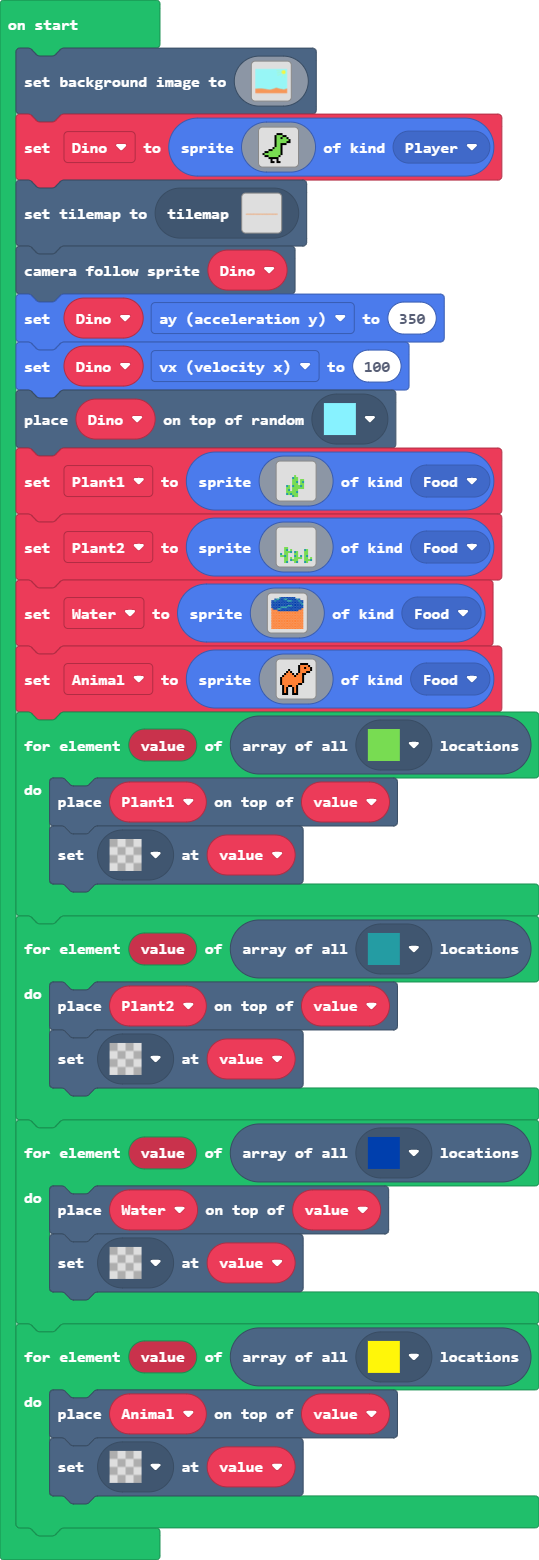
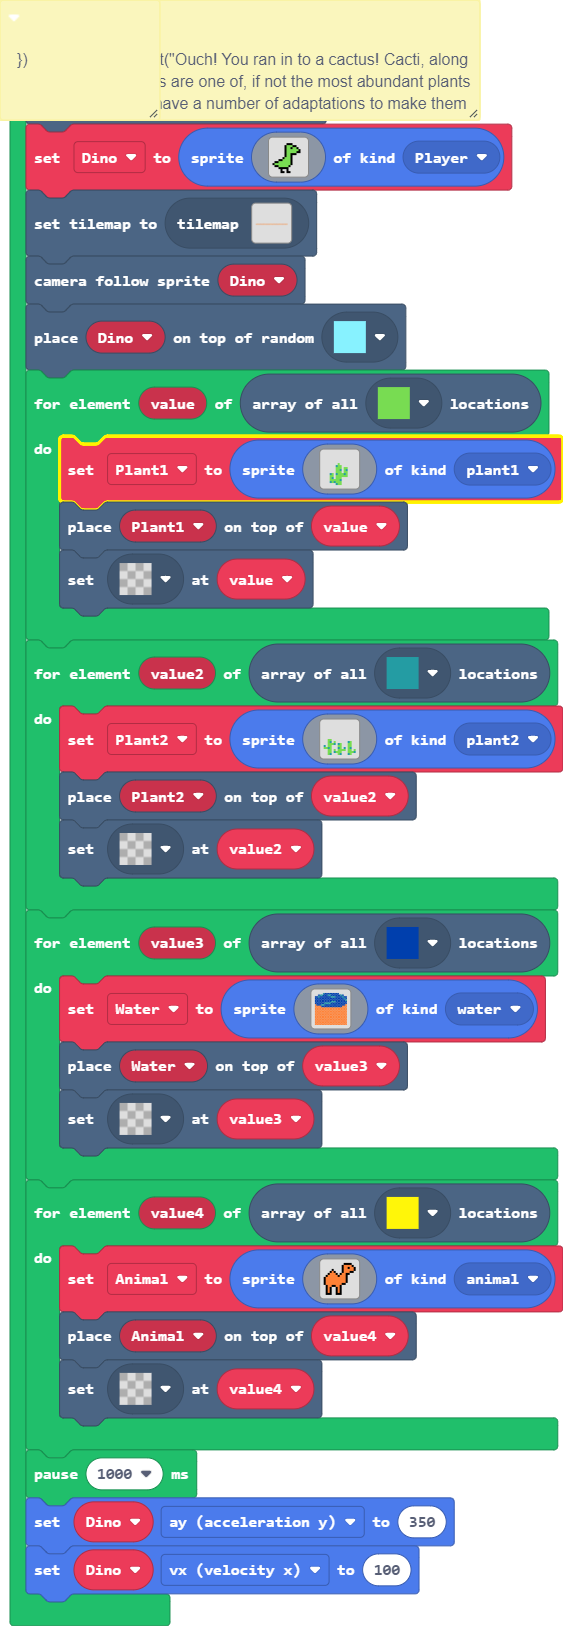
Update main.blocks, main.ts

diff --git a/main.ts b/main.ts
@@ -1,3 +1,22 @@
+namespace SpriteKind {
+    export const plant1 = SpriteKind.create()
+    export const plant2 = SpriteKind.create()
+    export const water = SpriteKind.create()
+    export const animal = SpriteKind.create()
+}
+/**
+ * sprites.onOverlap(SpriteKind.Player, SpriteKind.plant1, function (sprite, otherSprite) {
+ */
+/**
+ * game.showLongText("Ouch! You ran in to a cactus! Cacti, along with other succulents are one of, if not the most abundant plants in the desert. They have a number of adaptations to make them suitable for the desert, including having wider roots and spines for leaves to reduce water loss.", DialogLayout.Bottom)
+ */
+/**
+ * })
+ */
+let Animal: Sprite = null
+let Water: Sprite = null
+let Plant2: Sprite = null
+let Plant1: Sprite = null
 scene.setBackgroundImage(img`
     9999999999999999999999999999999999999999999999999999999999999999999999999999999999999999999999999999999999999999999999999999999999999999999999999999999999999999
     9999999999999999999999999999999999999999999999999999999999999999999999999999999999999999999999999999999999999999999999999999999999999999999999999999999999999999
@@ -140,98 +159,99 @@ let Dino = sprites.create(img`
     `, SpriteKind.Player)
 tiles.setCurrentTilemap(tilemap`level1`)
 scene.cameraFollowSprite(Dino)
-Dino.ay = 350
-Dino.vx = 100
 tiles.placeOnRandomTile(Dino, assets.tile`myTile6`)
-let Plant1 = sprites.create(img`
-    . . . . . . . . . . . . . . . . 
-    . . . . . . . . . . . . . . . . 
-    . . . . . . . . . . . . . . . . 
-    . . . . . . . . . . . . . . . . 
-    . . . . . . . . . . . . . . . . 
-    . . . . . . . 7 . . . . . . . . 
-    . . . . . . 6 7 7 . . . . . . . 
-    . . . . . . 7 7 7 . 7 7 . . . . 
-    . . . . . . 7 7 6 . 7 6 . . . . 
-    . . . . . . 7 7 7 . 7 7 . . . . 
-    . . . 6 7 . 6 7 7 7 6 7 . . . . 
-    . . . 7 7 . 7 7 7 7 7 7 . . . . 
-    . . . 7 6 . 7 7 7 . . . . . . . 
-    . . . 7 7 7 7 7 6 . . . . . . . 
-    . . . 6 7 6 7 7 7 . . . . . . . 
-    . . . . . . 6 7 7 . . . . . . . 
-    `, SpriteKind.Food)
-let Plant2 = sprites.create(img`
-    . . . . . . . . . . . . . . . . 
-    . . . . . . . . . . . . . . . . 
-    . . . . . . . . . . . . . . . . 
-    . . . . . . . . . . . . . . . . 
-    . . . . . . . . . . . . . . . . 
-    . . . . . . . . . . . . . . . . 
-    . . . . . . . . . . . . . . . . 
-    . . . . . . . . . . . . . . . . 
-    . . 7 7 . . . . . . . . . . . . 
-    . . 7 6 . 7 . . . . . . 6 7 . . 
-    . . 7 7 7 6 . 6 7 . . . 7 7 . . 
-    6 . 7 7 . . . 7 7 . . . 7 7 . . 
-    7 7 6 7 . . . 6 7 . 6 . 7 6 . . 
-    . . 7 7 . 7 . 7 7 7 7 . 7 7 . 7 
-    . . 7 7 . 6 7 7 7 . . . 7 7 7 6 
-    . . 7 6 . . . 7 6 . . . 6 7 . . 
-    `, SpriteKind.Food)
-let Water = sprites.create(img`
-    .....6888888888.....
-    ..8668886688888868..
-    88688888886668888688
-    88888888888888888868
-    88888888888888888886
-    88888888886668888888
-    88888866668888888888
-    48886688888888888884
-    44448888888888888444
-    44444444444444444444
-    44444444444444444444
-    44444444444444444444
-    44444444444444444444
-    44444444444444444444
-    44444444444444444444
-    44444444444444444444
-    44444444444444444444
-    44444444444444444444
-    44444444444444444444
-    44444444444444444444
-    `, SpriteKind.Food)
-let Animal = sprites.create(img`
-    . . . . . . . . . . f f f f . . 
-    . . . . . . . . . f 4 4 4 4 f . 
-    . . . . . . . . . f 4 4 f 4 4 f 
-    . . . . f . . . . f 4 4 4 4 4 f 
-    . . . f 4 f . . . f 4 4 4 f f . 
-    . . f 4 4 4 f . f 4 4 f f . . . 
-    . f 4 4 4 4 4 f 4 4 4 f . . . . 
-    f 4 4 4 4 4 4 4 4 4 4 f . . . . 
-    f 4 4 4 4 4 4 4 4 4 4 f . . . . 
-    f 4 4 4 4 4 4 4 4 4 4 f . . . . 
-    f 4 4 4 4 4 4 4 4 f f . . . . . 
-    . f 4 4 f f 4 4 f . . . . . . . 
-    . f 4 f . . f 4 f . . . . . . . 
-    . f 4 f . . f 4 f . . . . . . . 
-    . f 4 f . . f 4 f . . . . . . . 
-    . f f f . . f f f . . . . . . . 
-    `, SpriteKind.Food)
 for (let value of tiles.getTilesByType(assets.tile`myTile`)) {
+    Plant1 = sprites.create(img`
+        . . . . . . . . . . . . . . . . 
+        . . . . . . . . . . . . . . . . 
+        . . . . . . . . . . . . . . . . 
+        . . . . . . . . . . . . . . . . 
+        . . . . . . . . . . . . . . . . 
+        . . . . . . . 7 . . . . . . . . 
+        . . . . . . 6 7 7 . . . . . . . 
+        . . . . . . 7 7 7 . 7 7 . . . . 
+        . . . . . . 7 7 6 . 7 6 . . . . 
+        . . . . . . 7 7 7 . 7 7 . . . . 
+        . . . 6 7 . 6 7 7 7 6 7 . . . . 
+        . . . 7 7 . 7 7 7 7 7 7 . . . . 
+        . . . 7 6 . 7 7 7 . . . . . . . 
+        . . . 7 7 7 7 7 6 . . . . . . . 
+        . . . 6 7 6 7 7 7 . . . . . . . 
+        . . . . . . 6 7 7 . . . . . . . 
+        `, SpriteKind.plant1)
     tiles.placeOnTile(Plant1, value)
     tiles.setTileAt(value, assets.tile`transparency16`)
 }
-for (let value of tiles.getTilesByType(assets.tile`myTile3`)) {
-    tiles.placeOnTile(Plant2, value)
-    tiles.setTileAt(value, assets.tile`transparency16`)
+for (let value2 of tiles.getTilesByType(assets.tile`myTile3`)) {
+    Plant2 = sprites.create(img`
+        . . . . . . . . . . . . . . . . 
+        . . . . . . . . . . . . . . . . 
+        . . . . . . . . . . . . . . . . 
+        . . . . . . . . . . . . . . . . 
+        . . . . . . . . . . . . . . . . 
+        . . . . . . . . . . . . . . . . 
+        . . . . . . . . . . . . . . . . 
+        . . . . . . . . . . . . . . . . 
+        . . 7 7 . . . . . . . . . . . . 
+        . . 7 6 . 7 . . . . . . 6 7 . . 
+        . . 7 7 7 6 . 6 7 . . . 7 7 . . 
+        6 . 7 7 . . . 7 7 . . . 7 7 . . 
+        7 7 6 7 . . . 6 7 . 6 . 7 6 . . 
+        . . 7 7 . 7 . 7 7 7 7 . 7 7 . 7 
+        . . 7 7 . 6 7 7 7 . . . 7 7 7 6 
+        . . 7 6 . . . 7 6 . . . 6 7 . . 
+        `, SpriteKind.plant2)
+    tiles.placeOnTile(Plant2, value2)
+    tiles.setTileAt(value2, assets.tile`transparency16`)
 }
-for (let value of tiles.getTilesByType(assets.tile`myTile1`)) {
-    tiles.placeOnTile(Water, value)
-    tiles.setTileAt(value, assets.tile`transparency16`)
+for (let value3 of tiles.getTilesByType(assets.tile`myTile1`)) {
+    Water = sprites.create(img`
+        .....6888888888.....
+        ..8668886688888868..
+        88688888886668888688
+        88888888888888888868
+        88888888888888888886
+        88888888886668888888
+        88888866668888888888
+        48886688888888888884
+        44448888888888888444
+        44444444444444444444
+        44444444444444444444
+        44444444444444444444
+        44444444444444444444
+        44444444444444444444
+        44444444444444444444
+        44444444444444444444
+        44444444444444444444
+        44444444444444444444
+        44444444444444444444
+        44444444444444444444
+        `, SpriteKind.water)
+    tiles.placeOnTile(Water, value3)
+    tiles.setTileAt(value3, assets.tile`transparency16`)
 }
-for (let value of tiles.getTilesByType(assets.tile`myTile4`)) {
-    tiles.placeOnTile(Animal, value)
-    tiles.setTileAt(value, assets.tile`transparency16`)
+for (let value4 of tiles.getTilesByType(assets.tile`myTile4`)) {
+    Animal = sprites.create(img`
+        . . . . . . . . . . f f f f . . 
+        . . . . . . . . . f 4 4 4 4 f . 
+        . . . . . . . . . f 4 4 f 4 4 f 
+        . . . . f . . . . f 4 4 4 4 4 f 
+        . . . f 4 f . . . f 4 4 4 f f . 
+        . . f 4 4 4 f . f 4 4 f f . . . 
+        . f 4 4 4 4 4 f 4 4 4 f . . . . 
+        f 4 4 4 4 4 4 4 4 4 4 f . . . . 
+        f 4 4 4 4 4 4 4 4 4 4 f . . . . 
+        f 4 4 4 4 4 4 4 4 4 4 f . . . . 
+        f 4 4 4 4 4 4 4 4 f f . . . . . 
+        . f 4 4 f f 4 4 f . . . . . . . 
+        . f 4 f . . f 4 f . . . . . . . 
+        . f 4 f . . f 4 f . . . . . . . 
+        . f 4 f . . f 4 f . . . . . . . 
+        . f f f . . f f f . . . . . . . 
+        `, SpriteKind.animal)
+    tiles.placeOnTile(Animal, value4)
+    tiles.setTileAt(value4, assets.tile`transparency16`)
 }
+pause(1000)
+Dino.ay = 350
+Dino.vx = 100
